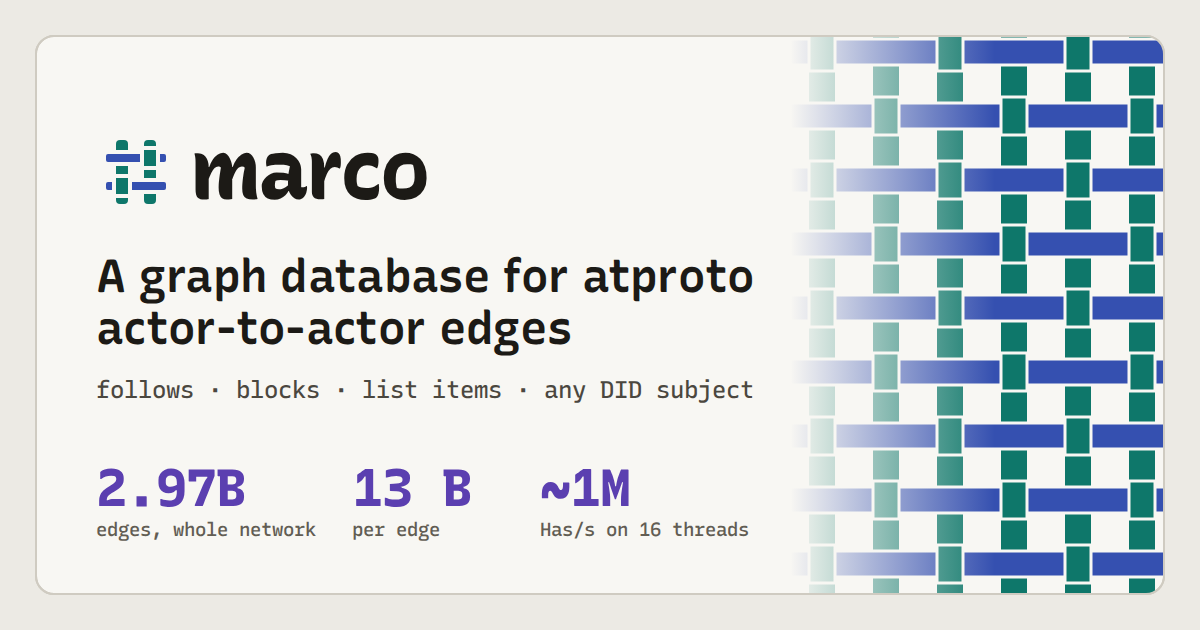
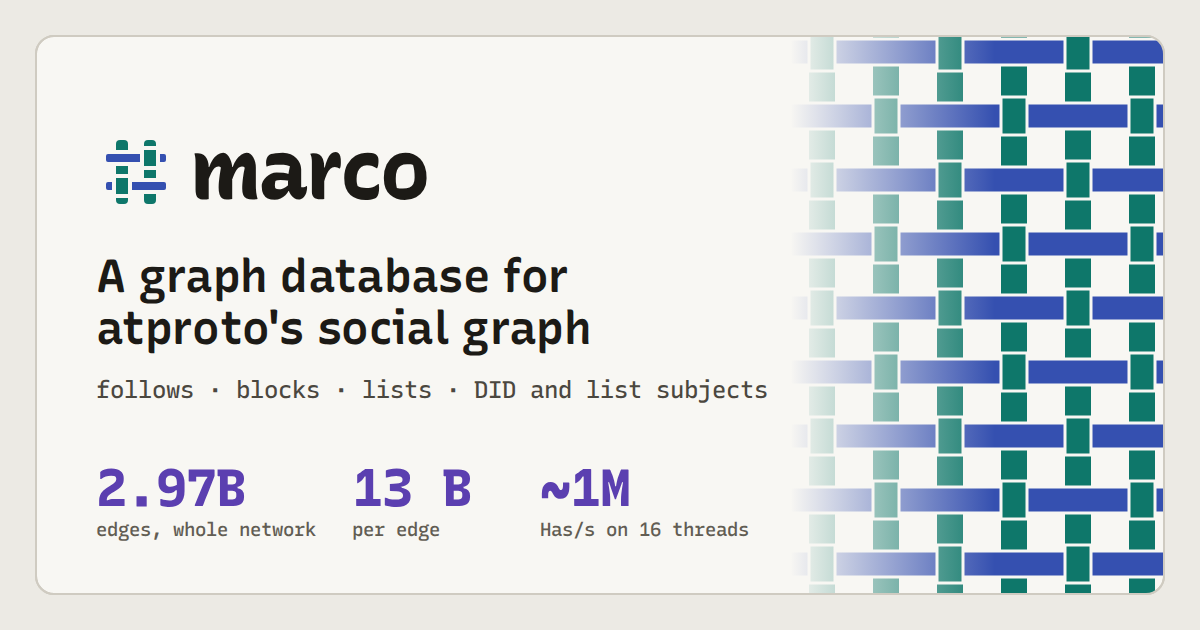
relations: records as subjects (subject_collection, $self) and when
The rest of jazware/marco#2's version of this commit, over the earlier
version CR 1169 landed (ykkwxvqk): scan-scylla refuses a table whose
relation has `when` or a `$self` subject, since a table's columns hold no
record to read them from; the build input and relations docs say which
paths can check `when` (only those that read records), and that every
subject record is a directory node, so record subjects suit small
collections such as lists; and the descriptions (README, overview, the
crate doc, the workspace Cargo.toml, the Graph proto's header, the
console's home page and site description, the social card's script) say
atproto's social graph rather than actor-to-actor edges. Generated code
regenerated with `just gen`. The social card's subline is "follows ·
blocks · lists · DID and list subjects" (his ran into the weave), and
ui/public/og/marco.png is redrawn with `npm run og-card`. seek's docs
keep CR 1169's wording.

Ported from jazware/marco#2.

Mono-Commit: 90565cb811e135fa5402a642337d839eebb451f2

diff --git a/ui/src/pages/home/Home.tsx b/ui/src/pages/home/Home.tsx
@@ -33,7 +33,7 @@ export function Home() {
               </span>
               marco
             </h1>
-            <p className="home-line">A graph database for atproto actor-to-actor edges: follows, blocks, list items and any record whose subject is a DID.</p>
+            <p className="home-line">A graph database for atproto's social graph: follows, blocks, list items and any record whose subject is a DID or a record such as a list.</p>
             <div className="home-cta">
               <Link to="/docs" className="cx-btn primary">
                 Docs

diff --git a/ui/src/gen/marco/v1/graph_pb.ts b/ui/src/gen/marco/v1/graph_pb.ts
@@ -1058,8 +1058,8 @@ export const SetOpSchema: GenEnum<SetOp> = /*@__PURE__*/
   enumDesc(file_marco_v1_graph, 1);
 
 /**
- * The graph API: actor-to-actor edges. Reads are open. Writes need the admin
- * token (`Authorization: Bearer <token>`).
+ * The graph API: edges from actors to actors, and to records such as lists.
+ * Reads are open. Writes need the admin token (`Authorization: Bearer <token>`).
  *
  * Relations are named in config ("follow", "block", "listitem"). A rel field
  * takes a name; an empty rels list means every relation.

diff --git a/crates/marco-load/src/cql/config.rs b/crates/marco-load/src/cql/config.rs
@@ -224,6 +224,14 @@ impl Config {
                     r.owner_of.as_deref().unwrap_or("")
                 );
             }
+            // a table's columns hold no record, which `when` and `$self` are read from
+            if !r.when.is_empty() || r.is_self() {
+                bail!(
+                    "table {:?}: {:?} has `when` or a $self subject, which only its records hold: scan-scylla reads columns",
+                    t.name,
+                    t.relation
+                );
+            }
             match (&r.list, &t.list) {
                 (Some(_), None) => t.list = Some(DEFAULT_LIST.into()),
                 (None, Some(_)) => {
@@ -313,5 +321,42 @@ mod tests {
             "nodes = [\"x\"]\nkeyspace = \"k\"\nbogus = 1\n[[table]]\nrelation = \"a\"\nname = \"b\""
         )
         .is_err());
+    }
+
+    /// A relation whose subjects are records in a column scans like any
+    /// other, and the build checks them. One with `when` or a `$self`
+    /// subject needs its records, which a table's columns don't hold.
+    #[test]
+    fn record_subjects_from_columns() {
+        let rels = marco_core::Relations::parse_toml(
+            r#"
+[[relation]]
+name = "listblock"
+collection = "app.bsky.graph.listblock"
+subject = "subject"
+subject_collection = "app.bsky.graph.list"
+
+[[relation]]
+name = "modlist"
+collection = "app.bsky.graph.list"
+subject = "$self"
+when = { purpose = "app.bsky.graph.defs#modlist" }
+
+[[relation]]
+name = "starred"
+collection = "com.example.star"
+subject = "subject"
+when = { kind = "gold" }
+"#,
+        )
+        .unwrap();
+        let table = |relation: &str, name: &str| {
+            format!("nodes = [\"x\"]\nkeyspace = \"k\"\n[[table]]\nrelation = \"{relation}\"\nname = \"{name}\"\nsubject = \"list\"\n")
+        };
+        Config::parse(&table("listblock", "listblocks")).unwrap().resolve(&rels).unwrap();
+        for (rel, name) in [("modlist", "lists"), ("starred", "stars")] {
+            let e = Config::parse(&table(rel, name)).unwrap().resolve(&rels).unwrap_err().to_string();
+            assert!(e.contains("only its records hold"), "{rel}: {e}");
+        }
     }
 }

diff --git a/crates/marco-proto/src/gen/connect/marco.v1.graph.__connect.rs b/crates/marco-proto/src/gen/connect/marco.v1.graph.__connect.rs
@@ -480,8 +480,8 @@ pub const GRAPH_WRITE_BATCH_SPEC: ::connectrpc::Spec = ::connectrpc::Spec::serve
         ::connectrpc::StreamType::Unary,
     )
     .with_idempotency_level(::connectrpc::IdempotencyLevel::Unknown);
-/// The graph API: actor-to-actor edges. Reads are open. Writes need the admin
-/// token (`Authorization: Bearer <token>`).
+/// The graph API: edges from actors to actors, and to records such as lists.
+/// Reads are open. Writes need the admin token (`Authorization: Bearer <token>`).
 ///
 /// Relations are named in config ("follow", "block", "listitem"). A rel field
 /// takes a name; an empty rels list means every relation.

diff --git a/crates/marco-core/src/lib.rs b/crates/marco-core/src/lib.rs
@@ -1,7 +1,7 @@
-//! marco: a graph database for atproto actor-to-actor edges (follows,
-//! blocks, any record whose subject is a DID). This crate is the engine: the
-//! DID directory, the relation registry, per-actor out logs, per-subject in
-//! sets, and the snapshot file they're frozen into.
+//! marco: a graph database for atproto's social graph (follows, blocks, any
+//! record whose subject is a DID or a record such as a list). This crate is
+//! the engine: the DID directory, the relation registry, per-actor out logs,
+//! per-subject in sets, and the snapshot file they're frozen into.
 
 pub mod did;
 pub mod format6;

diff --git a/crates/marco-server/src/ui.rs b/crates/marco-server/src/ui.rs
@@ -69,7 +69,7 @@ struct Head<'a> {
     kind: &'a str,
 }
 
-const SITE_DESCRIPTION: &str = "A graph database for atproto actor-to-actor edges: follows, blocks, list items and any record whose subject is a DID.";
+const SITE_DESCRIPTION: &str = "A graph database for atproto's social graph: follows, blocks, list items and any record whose subject is a DID or a record such as a list.";
 const OG_IMAGE: &str = "/og/marco.png";
 
 pub struct Ui {

diff --git a/crates/marco-load/README.md b/crates/marco-load/README.md
@@ -94,6 +94,12 @@ collection, and one whose subject is `$self` takes the row's own record
 URI (`at://<repo>/<collection>/<rkey>`). Those subjects are interned with
 the lists, so a list's URI is one id whichever relation names it.
 
+Rows hold no record, so the build can't check a relation's `when`: it
+keeps every create or update row as an edge. An exporter writes a row only
+for a record whose `when` paths hold, and a delete row for one updated so
+they don't. `scan-jetstream` and `scan-hubble` read the records and do
+that themselves.
+
 **Relations.** The build reads one directory per relation in its
 relations config (`--relations`, default follow, block and listitem), and a
 missing directory is an error. An input that holds only some relations is built
@@ -434,10 +440,10 @@ else's service, so ask its operator before raising `--rate`.
 | `too_big` | a CAR over `--max-car-mb` (1024) |
 
 and every record of a relation it left out (`skipped_records`):
-`no_subject`, `no_list`, `cross_repo`, `bad_list`, `bad_record` (not
-DAG-CBOR), `missing_block`, `bad_block` (its bytes don't match its CID). A
-subject that isn't a DID is left to the build, which counts it as
-`bad_subject`.
+`no_subject`, `bad_subject` (one the relation doesn't take), `no_list`,
+`cross_repo`, `bad_list`, `unmatched` (a record whose `when` paths don't
+hold), `bad_record` (not DAG-CBOR), `missing_block`, `bad_block` (its bytes
+don't match its CID).
 
 **Resume.** Rows go in the same files as `scan-scylla`'s, bucketed by repo
 DID prefix. A `listRepos` page is the unit of commit: its repos are fetched
@@ -585,7 +591,7 @@ come straight from the archive's own fold rules:
 | Archive row | Build input |
 |---|---|
 | create, update, a `#sync`'s replacement create | the record's subject (and list, for a list relation): create or update |
-| a create or update whose record isn't an edge (no subject, a subject that isn't a DID, a list in another repo) | a delete: the key ends empty, as it does live (`skipped` counts the reason) |
+| a create or update whose record isn't an edge (no subject, a subject the relation doesn't take, a list in another repo, `when` paths that don't hold) | a delete: the key ends empty, as it does live (`skipped` counts the reason) |
 | delete | a delete |
 | `#account` deleted, takendown, active | an `accounts.rb.zst` row: 1, 2, 0 |
 | `#account` deactivated, suspended, throttled, desynchronized | nothing: the account comes back as it was |

diff --git a/docs/overview.md b/docs/overview.md
@@ -2,7 +2,7 @@
 title: Overview
 section: marco
 order: 1
-summary: "A graph database for atproto actor-to-actor edges: follows, blocks, list items and any record whose subject is a DID. The whole network fits on one box."
+summary: "A graph database for atproto's social graph: follows, blocks, list items and any record whose subject is a DID or a record such as a list. The whole network fits on one box."
 ---
 
 ```hero
@@ -59,9 +59,10 @@ edges:
   - "inn.r -> dir.l75"
 ```
 
-marco keeps actor-to-actor edges. A relation is a record collection whose records name a subject
-DID, and relations come from config, so a new app's graph records need no new code. The defaults
-are `follow`, `block` and `listitem` ([Relations](relations.md)).
+marco keeps edges from actors to actors, and to small sets of records such as lists. A relation is
+a record collection whose records name a subject DID (or another record's AT URI), and relations
+come from config, so a new app's graph records need no new code. The defaults are `follow`, `block`
+and `listitem` ([Relations](relations.md)).
 
 An edge is a record, so its identity is the actor, the relation and the rkey. A repeat create is a
 no-op, and a delete removes exactly one record. That matters because about 0.14% of follow records
@@ -111,8 +112,9 @@ source's cursor, and a checkpoint folds the segments into new shard files now an
 
 ## What it isn't
 
-- Record-to-record edges, like likes on posts. Those are post-keyed sets about 5 times the size of
-  the follow graph (12.2B likes).
+- Edges to posts, like likes. A relation can take a record as its subject, but every such record
+  is a directory node, which suits lists and not posts. Likes are post-keyed sets about 5 times the
+  size of the follow graph (12.2B likes).
 - A record store. marco keeps ids, rkeys and subjects. It doesn't store record bodies, profiles or
   list records, and it doesn't search. A list's kind is kept only as a relation
   ([Records as subjects](relations.md#records-as-subjects)).

diff --git a/docs/relations.md b/docs/relations.md
@@ -145,8 +145,11 @@ edges:
 
 A relation can name another record in place of a DID. Its subject is then that record's AT URI,
 interned in the directory as a list is. A list's URI gets one id whichever relation names it, so a
-subscription to a list and the list's items meet on that id. Neither relation below is in the
-defaults. Add them after the others and rebuild ([Adding a relation](#adding-a-relation)).
+subscription to a list and the list's items meet on that id. Every subject record is a directory
+node that keeps its URI as a string, so this suits small collections such as lists (1.3M on the
+whole network, [Lists](lists-results.html)). A relation over posts would put every post it names
+in the directory. Neither relation below is in the defaults. Add them after the others and rebuild
+([Adding a relation](#adding-a-relation)).
 
 ```toml
 [[relation]]
@@ -174,6 +177,12 @@ A record whose `when` paths don't all hold isn't an edge, and its key empties li
 `modlist` edge, and one updated back gets it again, since that update is newer than the tombstone.
 Quote a dotted path in `when` (`when = { "a.b" = "x" }`), or TOML reads it as a nested table and
 the config is refused.
+
+Only a path that reads the record can check `when`: Jetstream, the firehose, `scan-jetstream` and
+`scan-hubble`. Build input holds no records, so `marco-load build` keeps every create or update row
+as an edge, and the write API keeps every add. So an exporter writes a row only for a record whose
+`when` paths hold, and a delete row for one updated so they don't. `scan-scylla` reads columns, so
+it refuses a relation with `when` or `$self` ([Rebuilding from Scylla](scylla.md)).
 
 Reads that compare two actors leave these relations out. `Relationships` without `rels` means the
 relations between actors, and `BlockPairs` refuses one in `rels` as it refuses a list relation.

diff --git a/docs/scylla.md b/docs/scylla.md
@@ -119,7 +119,10 @@ target/release/marco serve --snapshot snap-scylla --memory 3GiB --jetstream wss:
 
 - One row per record: the record's repo DID, its rkey and its subject DID, as text. A list
   relation's table also has the list's AT URI (the `list` column), and only a list relation's
-  table may have one.
+  table may have one. For a relation whose subjects are records, the subject column holds the
+  record's AT URI ([Records as subjects](relations.md#records-as-subjects)).
+- A relation with `when` or a `$self` subject can't be scanned. Its edges depend on the record
+  itself, and the scan reads columns, so the config is refused.
 - The partition key comes from the schema, and the token bounds use all of its columns, so any
   partition key works.
 - The snapshot holds exactly the relations the config's tables name. A relation left out isn't in
@@ -129,7 +132,8 @@ target/release/marco serve --snapshot snap-scylla --memory 3GiB --jetstream wss:
   members, an owner's items and the lists a DID is on. An item whose list is in another repo is
   dropped, as on the live path, and counted as `cross_repo_rows` in the report's table
   ([the owner rule](relations.md#the-owner-rule)).
-- Rows whose repo or subject isn't a DID are counted and skipped. The whole-network run had 13
+- Rows whose repo isn't a DID, or whose subject isn't one the relation takes, are counted and
+  skipped. The whole-network run had 13
   (3 follows, 10 blocks). A row with a null column is skipped and counted as `null_rows`.
 
 ### The primary key

diff --git a/README.md b/README.md
@@ -1,10 +1,10 @@
 # marco
 
-marco is a graph database for atproto actor-to-actor edges: follows, blocks, list items and any
-record whose subject is a DID. It holds who follows, blocks or lists whom for every account on the
-network, and answers the graph questions an appview asks while it hydrates a page. Does the
-viewer follow this author? Which of these 50 accounts block the viewer? Who are the mutuals? Which
-of these actors are on a mute list?
+marco is a graph database for atproto's social graph: follows, blocks, list items and any record
+whose subject is a DID or a record such as a list. It holds who follows, blocks or lists whom for
+every account on the network, and answers the graph questions an appview asks while it hydrates a
+page. Does the viewer follow this author? Which of these 50 accounts block the viewer? Who are the
+mutuals? Which of these actors are on a mute list?
 
 It's one binary on local disk. The whole network's 2.97B follows and blocks are a 38.5 GB
 snapshot, 13 B an edge, served from a 32-thread box with 61 GiB of RAM at about 1M `Has` calls a

diff --git a/docs/operations.md b/docs/operations.md
@@ -159,7 +159,7 @@ A scraper that can't send the token reads the same text from `--ops-listen`, whi
 | `marco_ingest_connected` | `source` | 1 while the stream is open |
 | `marco_ingest_events_total` | `source`, `kind` | Events read |
 | `marco_ingest_ops_total` | `source`, `op` | Ops applied (`add`, `delete`, `status`) |
-| `marco_ingest_skipped_ops_total` | `source`, `reason` | Ops marco couldn't use (`bad_subject`, `bad_list`, `missing_block`…) |
+| `marco_ingest_skipped_ops_total` | `source`, `reason` | Ops marco couldn't use (`bad_subject`, `bad_list`, `missing_block`…), and records a relation's `when` doesn't keep (`unmatched`) |
 | `marco_ingest_decode_errors_total` | `source`, `reason` | Events that didn't decode |
 | `marco_ingest_reconnects_total` | `source`, `reason` | Streams dialled again |
 | `marco_ingest_apply_errors_total` | `source` | Sink writes that failed and were retried |
